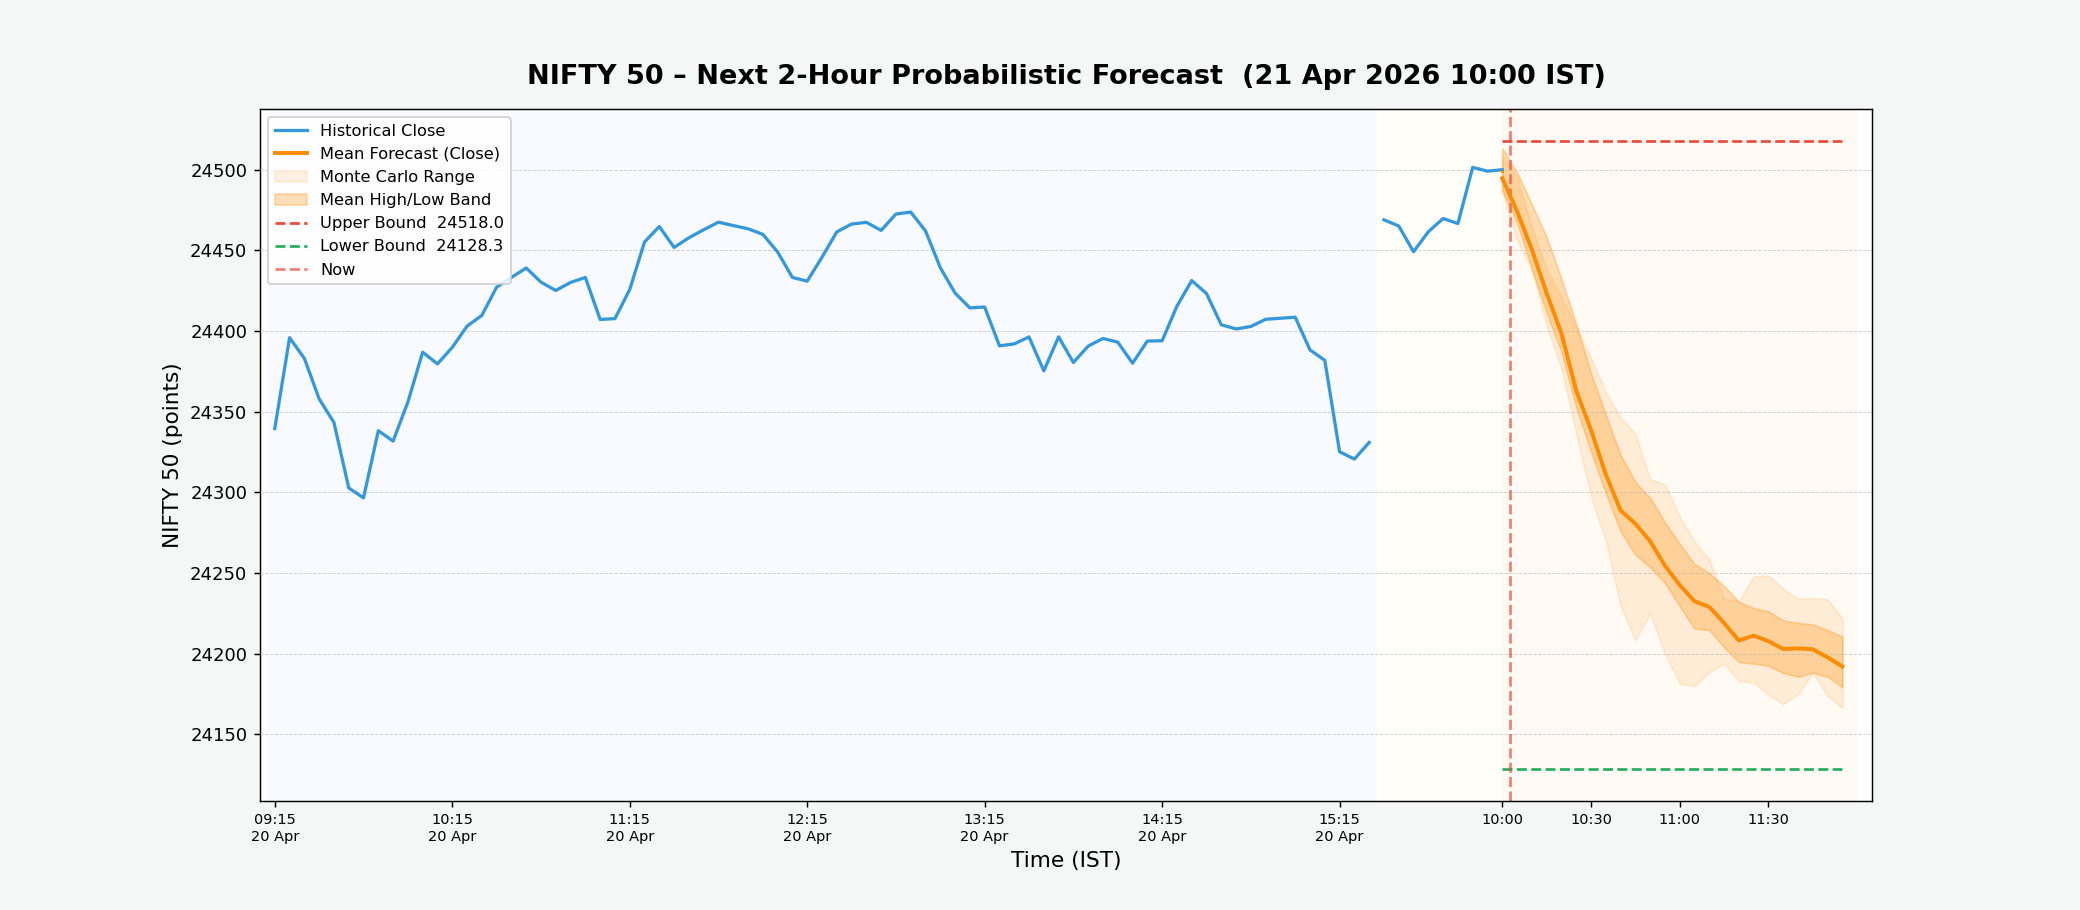
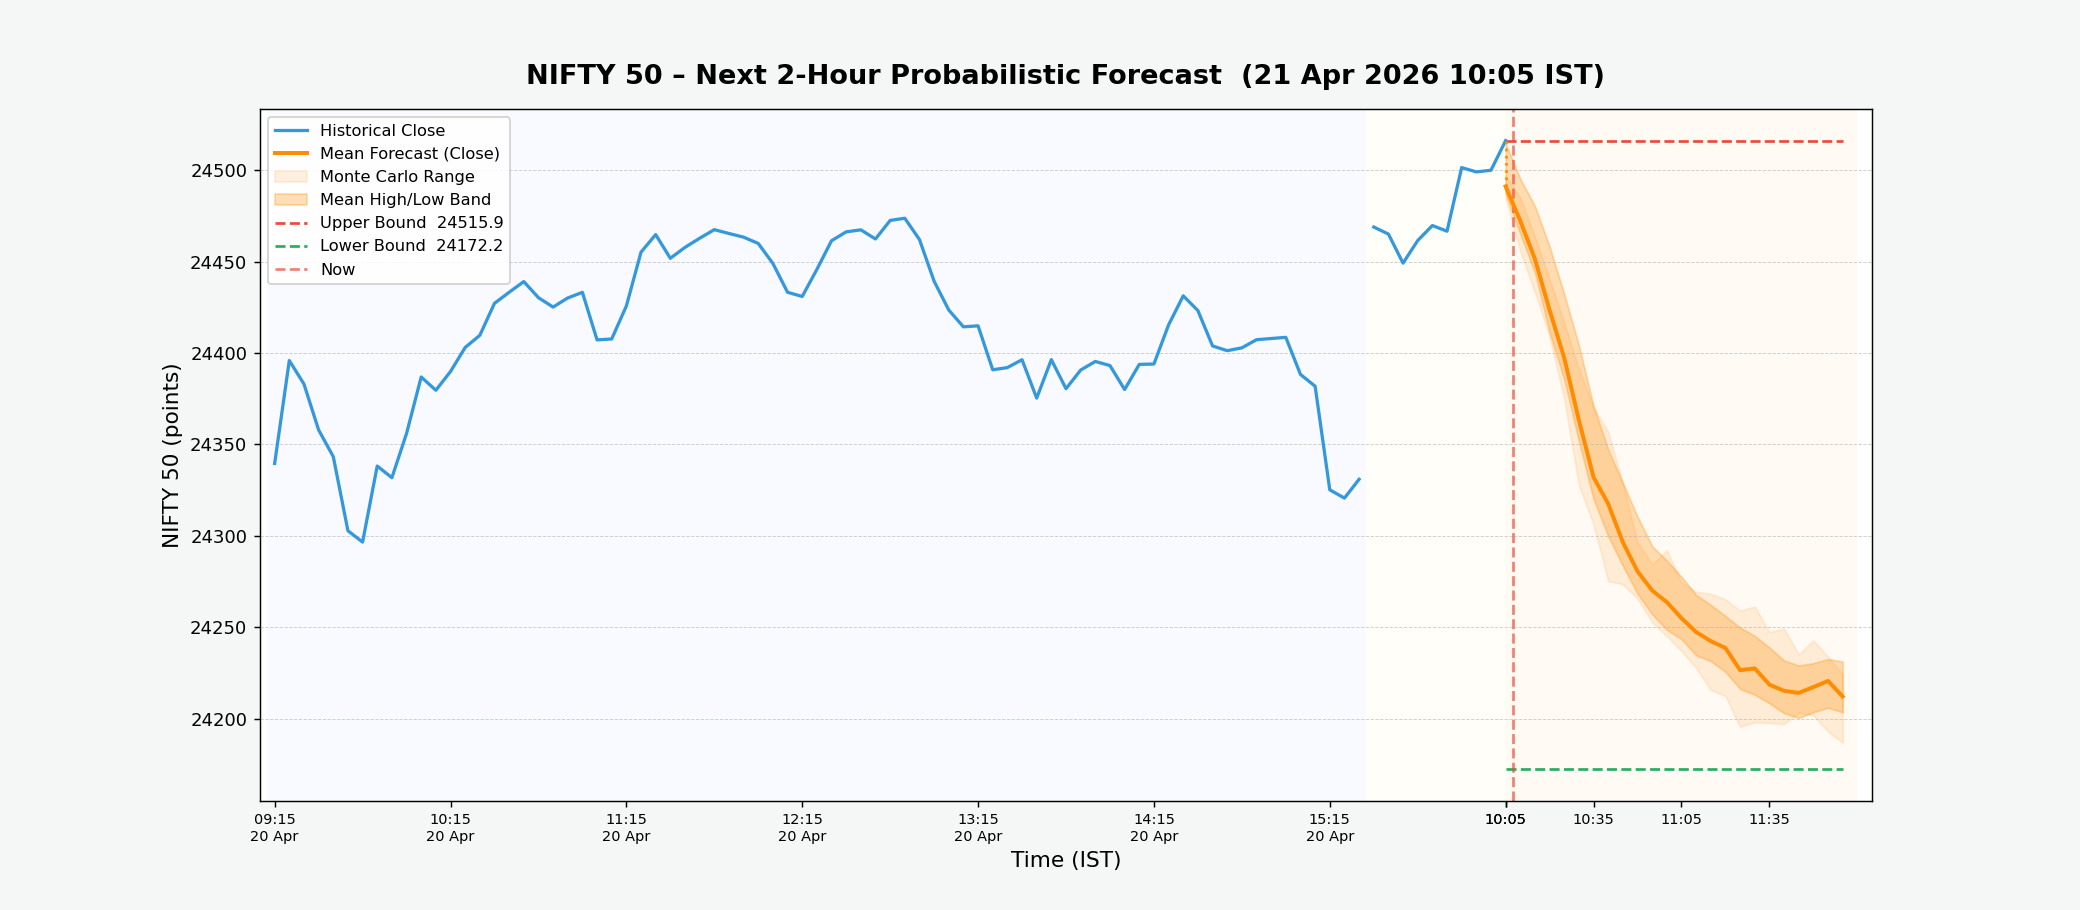
NIFTY forecast update – 2026-04-21 10:05 IST

diff --git a/index.html b/index.html
@@ -24,29 +24,29 @@
 
         <!-- Timestamp bar -->
         <div class="timestamp-bar">
-            <span>Last updated (IST):&nbsp;<strong id="update-time">2026-04-21 10:00:04</strong></span>
+            <span>Last updated (IST):&nbsp;<strong id="update-time">2026-04-21 10:05:04</strong></span>
         </div>
 
         <!-- Metric cards -->
         <div class="metrics-container">
             <div class="metric-card bullish">
                 <div class="metric-label">Bullish Bar Ratio</div>
-                <div class="metric-value" id="upside-prob">18.8%</div>
+                <div class="metric-value" id="upside-prob">15.4%</div>
                 <div class="metric-sub">Next 2h · close &gt; open %</div>
             </div>
             <div class="metric-card upper">
                 <div class="metric-label">Upper Bound</div>
-                <div class="metric-value" id="upper-bound">24518.0</div>
+                <div class="metric-value" id="upper-bound">24515.9</div>
                 <div class="metric-sub">Max predicted high</div>
             </div>
             <div class="metric-card lower">
                 <div class="metric-label">Lower Bound</div>
-                <div class="metric-value" id="lower-bound">24128.3</div>
+                <div class="metric-value" id="lower-bound">24172.2</div>
                 <div class="metric-sub">Min predicted low</div>
             </div>
             <div class="metric-card range">
                 <div class="metric-label">Predicted Range</div>
-                <div class="metric-value" id="pred-range">389.7 pts</div>
+                <div class="metric-value" id="pred-range">343.6 pts</div>
                 <div class="metric-sub">Upper − Lower spread</div>
             </div>
         </div>
